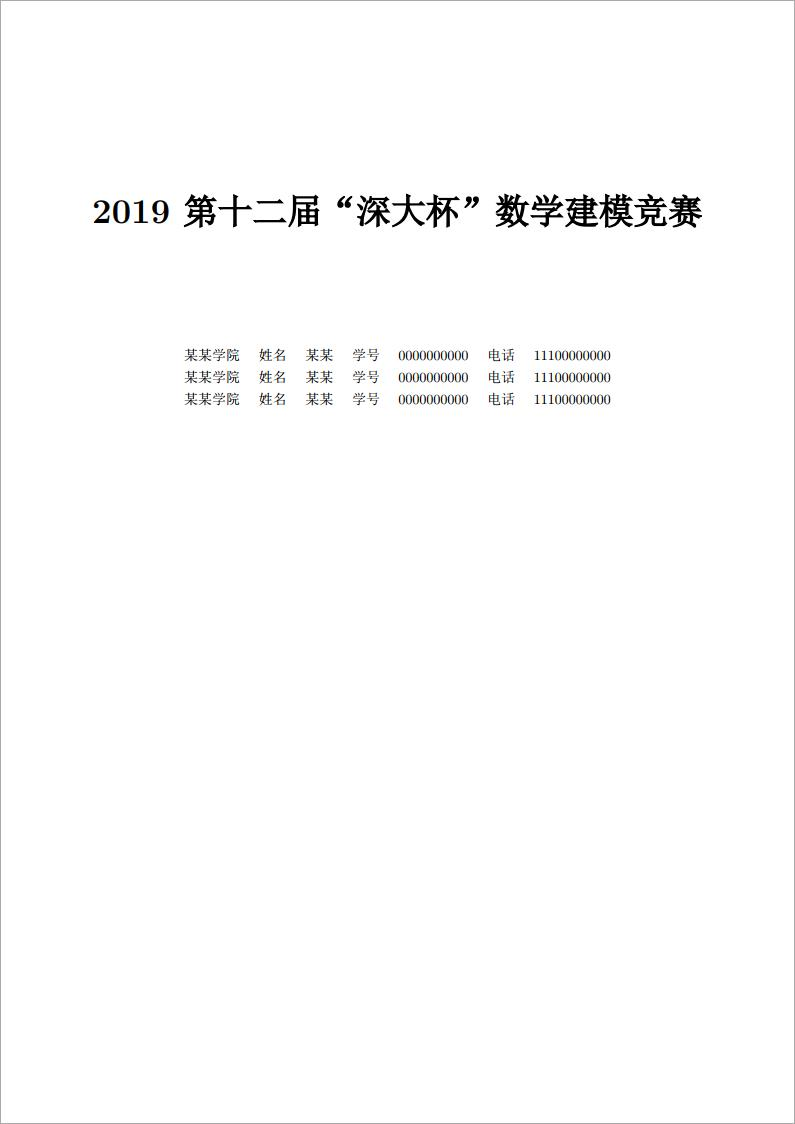
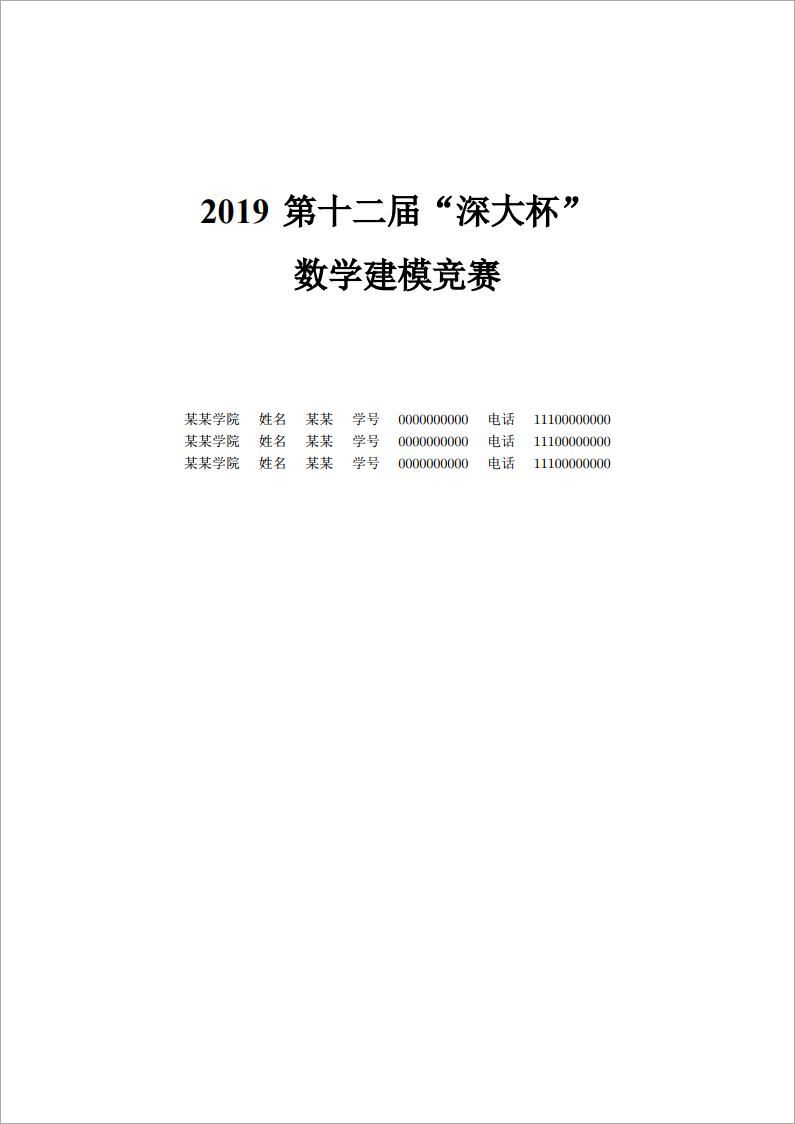
update

Changed region(s): [[0.2113, 0.3114, 0.7849, 0.4359], [0.2415, 0.1557, 0.8755, 0.2802], [0.1208, 0.1557, 0.2113, 0.218]]

diff --git a/src/main.tex b/src/main.tex
@@ -15,6 +15,7 @@
 %字体设置 (see document of xeCJK for more informations)
 \newCJKfontfamily\Fakesongti{宋体}[AutoFakeBold] %宋体 = SimSun, \Fakesongti = 可以加粗的“伪宋体”
 \newCJKfontfamily\Fakeheiti{黑体}[AutoFakeBold]
+\newfontfamily\Times{Times New Roman}
 
 %Print a specific table with 3 items
 \newcommand{\MyAuthor}[7]{
@@ -36,7 +37,11 @@
 
     \vspace*{2.2cm}
 
-    \centerline{\Fakesongti \zihao{1} \bfseries 2019第十二届“深大杯”数学建模竞赛}
+	\centerline{\Fakesongti \zihao{1} \bfseries {\Times 2019} 第十二届“深大杯”}
+	
+	\vspace*{0.8cm}
+	
+	\centerline{\Fakesongti \zihao{1} \bfseries 数学建模竞赛}
 
     \vspace*{3.05cm}
 
